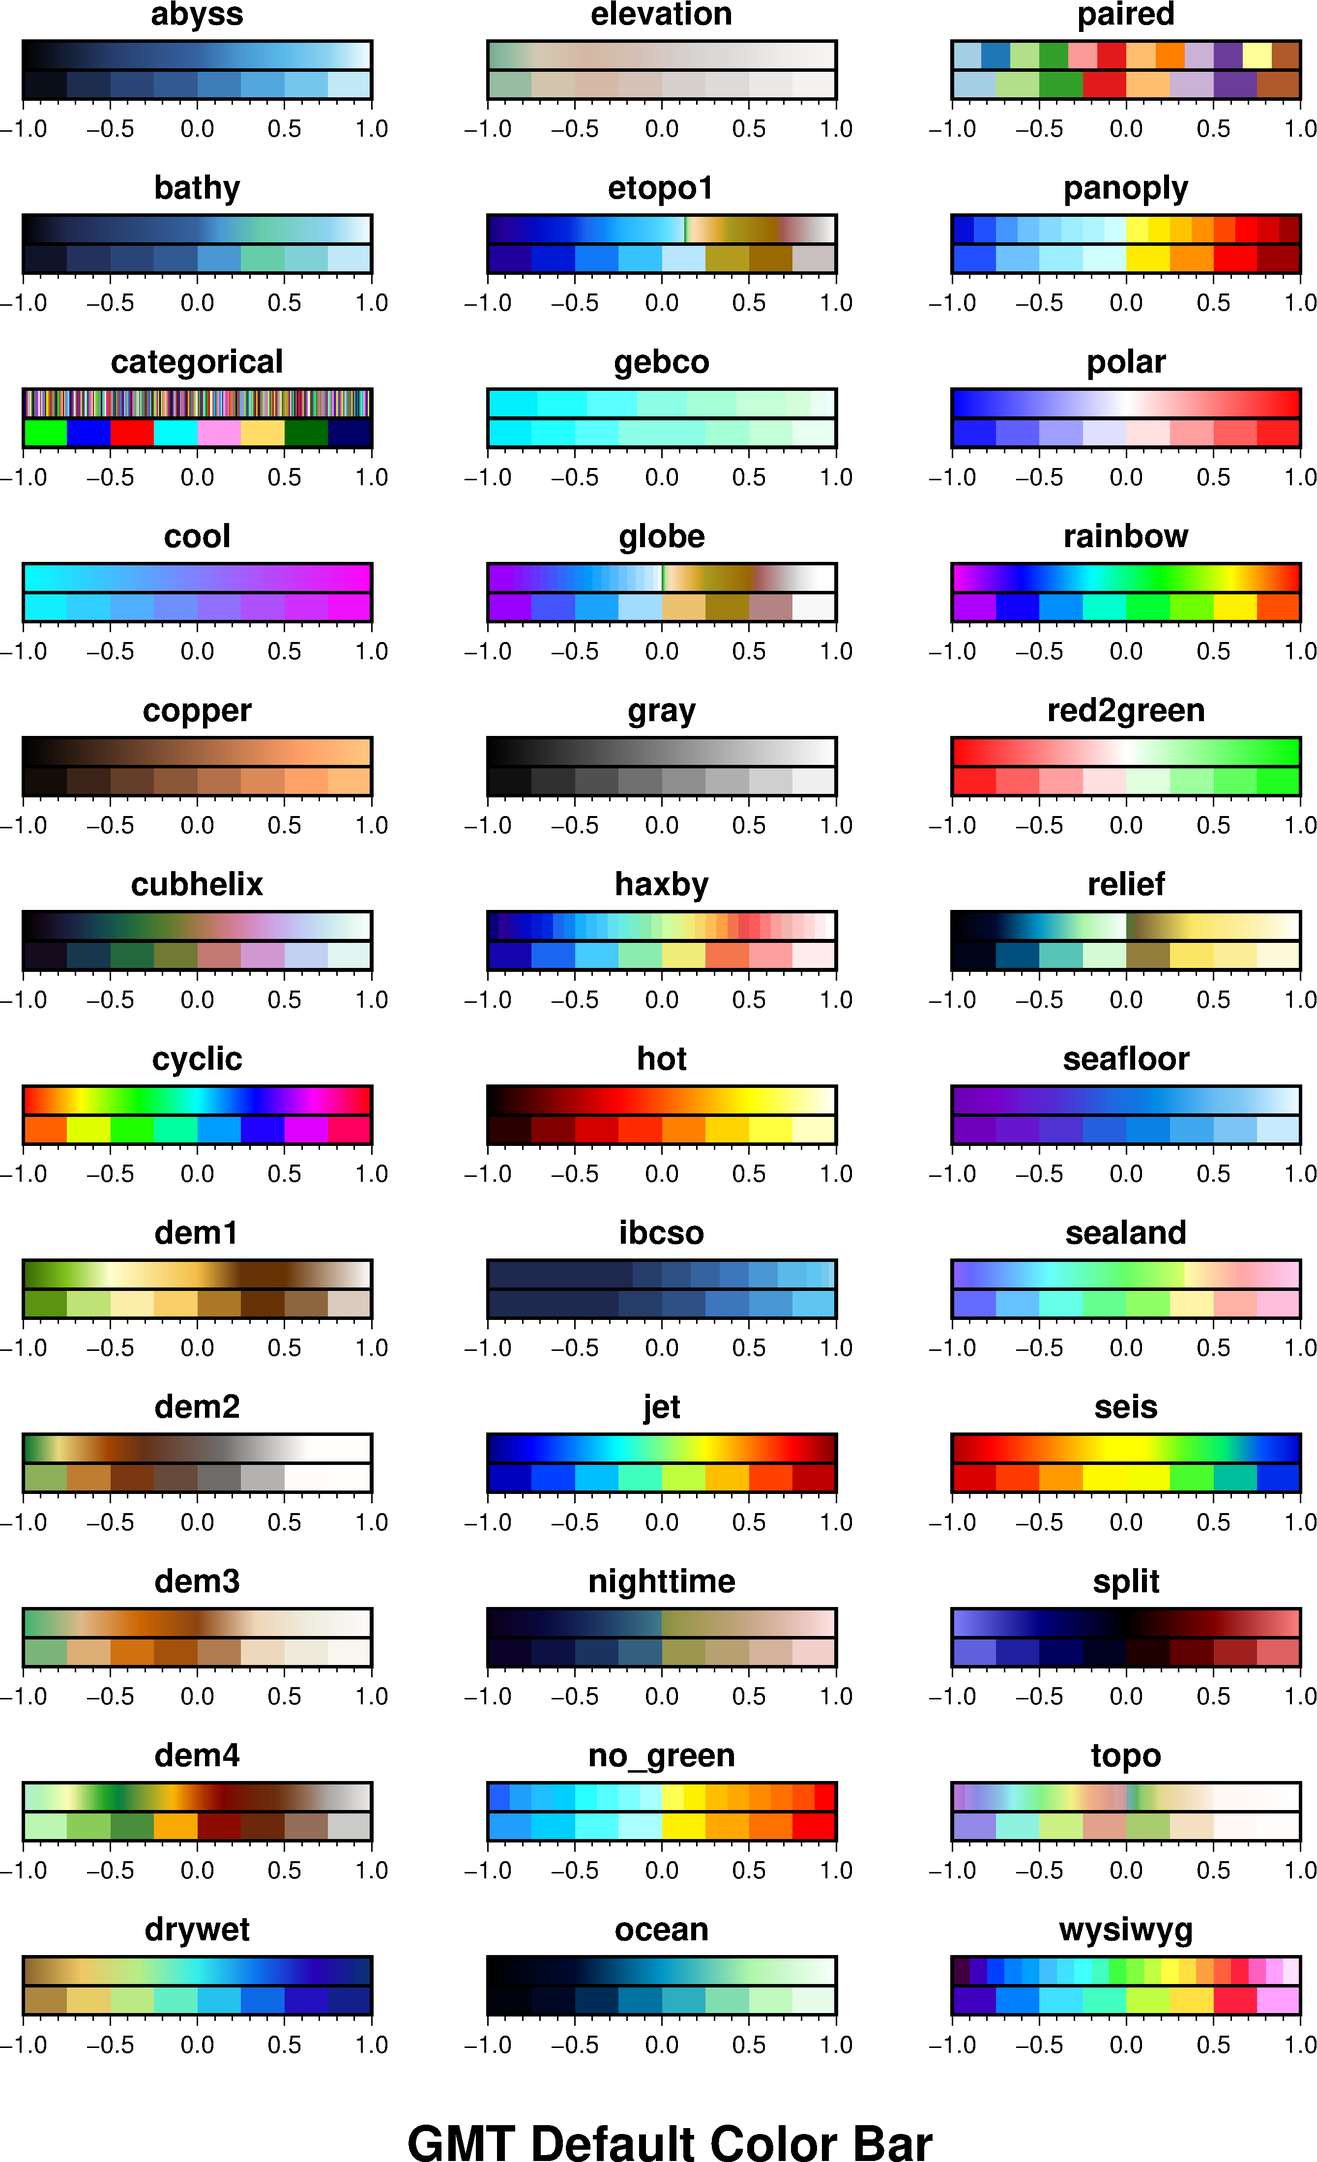
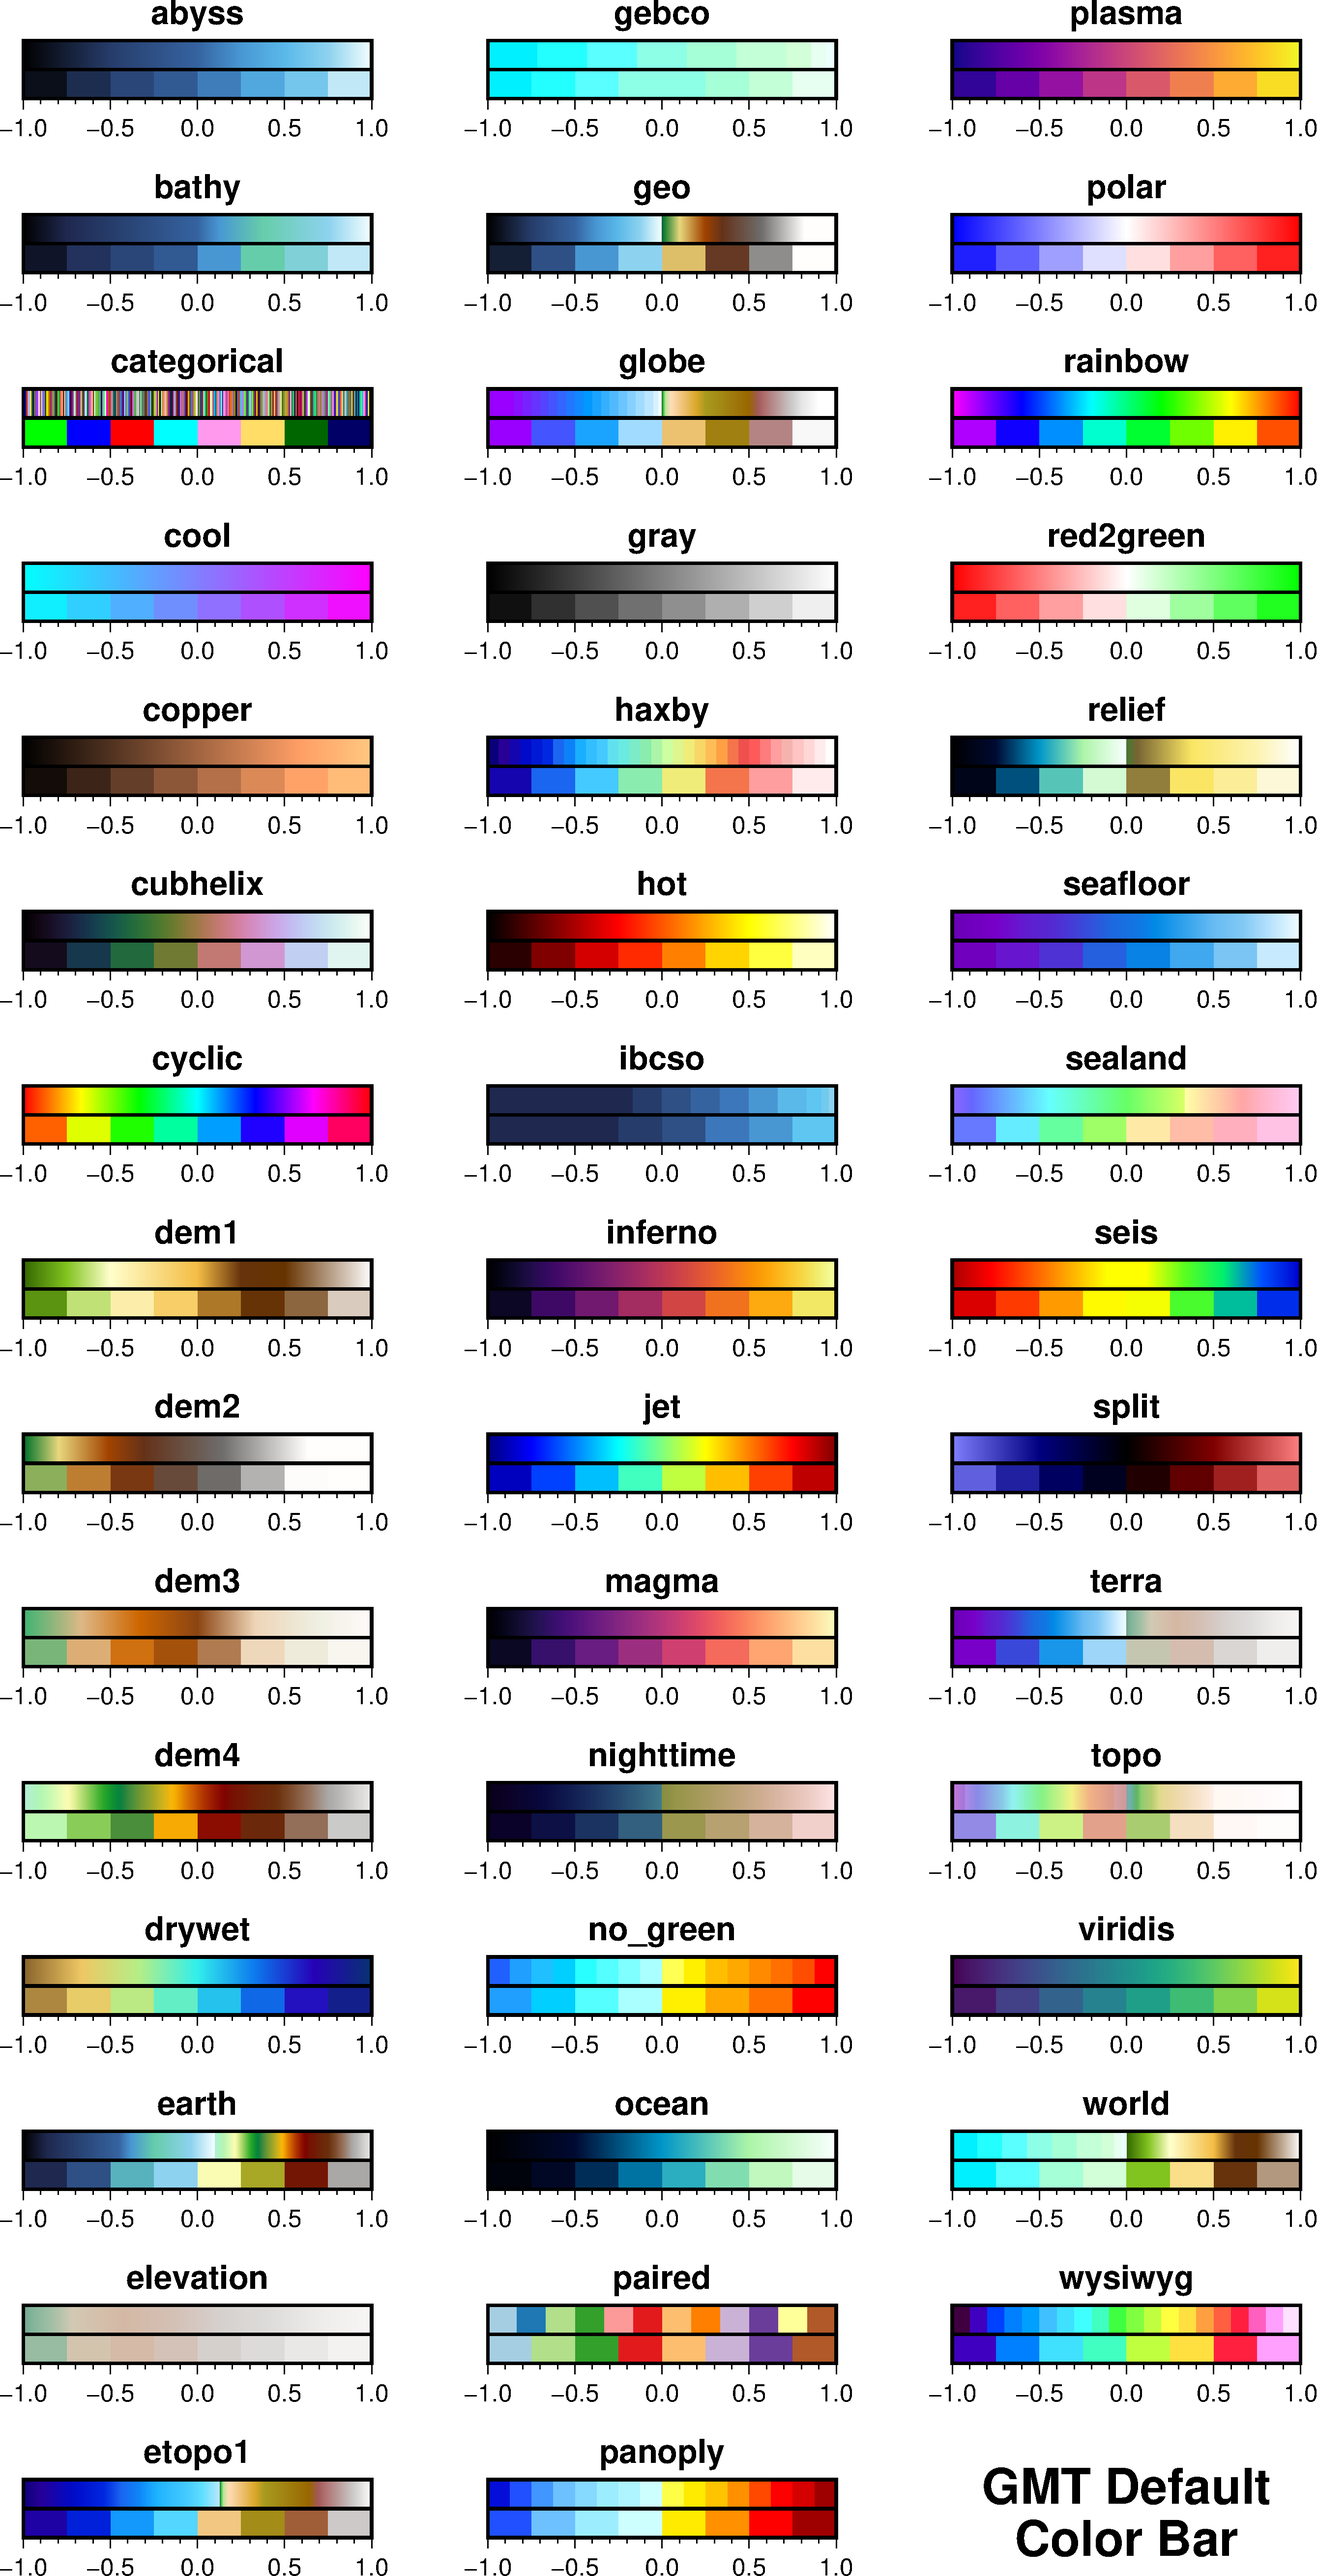
update 8-3

diff --git a/docs/topography_cpt.md b/docs/topography_cpt.md
@@ -70,7 +70,7 @@ N gray
   <img src="fig/8_3_cpt_1.png"/>
 </p>
 
-圖中列出36個GMT默認提供的色階檔(GMT version 5.2.1)，將每個色階做正規化的步驟，上方色階代表顏色連續的色階檔，
+圖中列出44個GMT默認提供的色階檔(GMT version 5.4.2)，將每個色階做正規化的步驟，上方色階代表顏色連續的色階檔，
 下方則是顏色離散的色階檔(間隔0.25)，如果原始的色階檔就不連續，那做出來就是不連續的色階檔。
 而兩者檔案中，有什麼差別呢？
 ```bash
